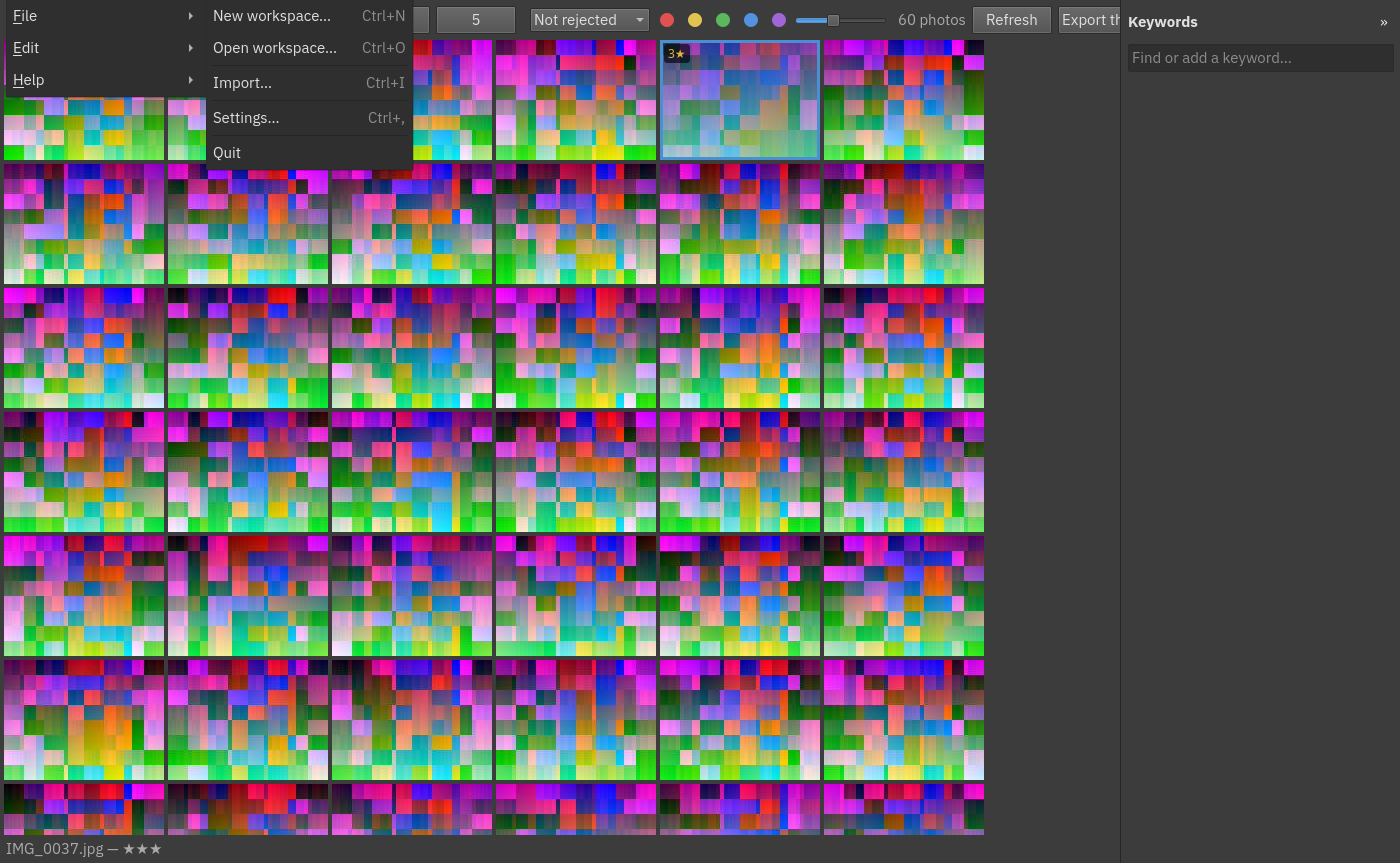
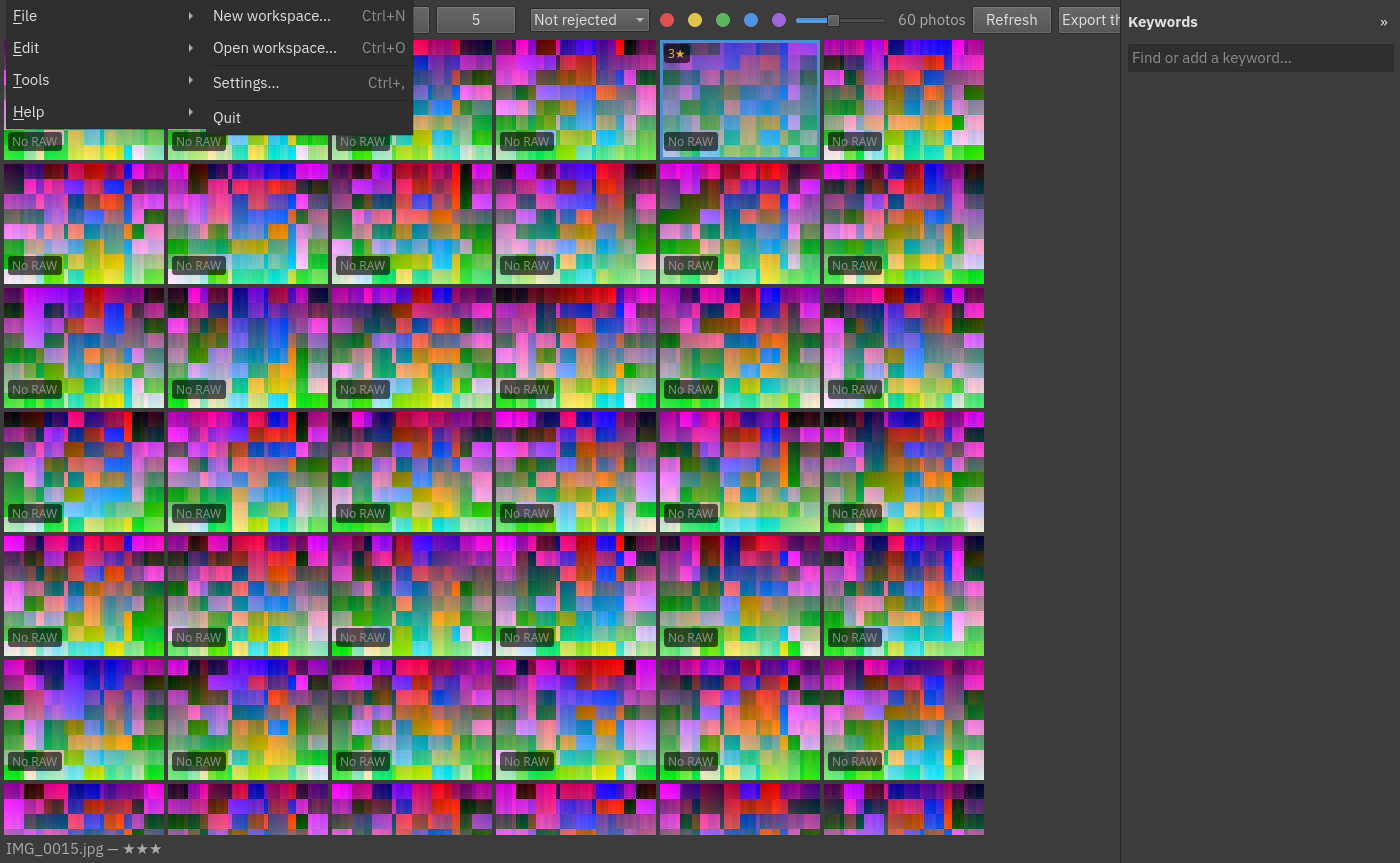
Group Import, Keywords and Duplicate photos under a new Tools menu (issue #14)
They were split across File (Import) and Edit (Keywords, Duplicate photos).
A fourth section, Tools (mnemonic T, no collision with File/Edit/Help's own
F/E/H, nor with French's F/E-acute/A), now holds all three, between Edit and
Help.

Caught by tst_menus.qml's own updated coverage, not by hand: Main.qml's
Repeater { model: 3 } behind every section's Alt+letter shortcut was sized
for File/Edit/Help only, so Alt+H (now the fourth section, not the third)
silently had no shortcut at all until the model became 4 - exactly the kind
of thing a hard-coded count over "every section" quietly stops covering the
moment one more is added.

- AppMenu.qml: the new section; French translation (Outils, mnemonic O).
- tst_menus.qml: section count, item lists, shortcut indices, Alt+T, and the
  cut-off-row loop all updated for four sections.
- docs/manual/: File/Edit path mentions of Import, Keywords and Duplicate
  photos updated to Tools; menu-file.png regenerated (the only manual image
  this touches).
- decisions.md: D-120.

diff --git a/crates/ui/tests/qml/tst_menus.qml b/crates/ui/tests/qml/tst_menus.qml
@@ -19,14 +19,14 @@ AppTestCase {
     function test_the_hamburger_menu_opens_lists_its_sections_and_runs_a_command() {
         launch(freshMachine())
         openMenu()
-        compare(app.menu.count, 3)
-        compare([0, 1, 2].map(sectionTitle), ["File", "Edit", "Help"])
+        compare(app.menu.count, 4)
+        compare([0, 1, 2, 3].map(sectionTitle), ["File", "Edit", "Tools", "Help"])
         // Choosing a section shows its commands; a click on one closes the menu and runs it.
         click(app.menu.itemAt(0))
         const file = app.menu.itemAt(0).subMenu
         verify(file.visible)
-        click(file.itemAt(5))
-        compare(file.itemAt(5).text, "Settings…")
+        click(file.itemAt(3))
+        compare(file.itemAt(3).text, "Settings…")
         wait(200)
         verify(app.settingsDialog.visible)
         verify(!app.menu.opened, "the menu closed")
@@ -36,23 +36,27 @@ AppTestCase {
         launch(freshMachine())
         const file = app.menu.itemAt(0).subMenu
         const edit = app.menu.itemAt(1).subMenu
+        const tools = app.menu.itemAt(2).subMenu
         const kinds = menu => Array.from({ length: menu.count }, (_, i) => isSeparator(menu.itemAt(i)) ? "-" : menu.itemAt(i).text)
-        // New and Open, then Import, then Settings, then Quit.
-        compare(kinds(file), ["New workspace…", "Open workspace…", "-", "Import…", "-", "Settings…", "-", "Quit"])
+        // New and Open, then Settings, then Quit.
+        compare(kinds(file), ["New workspace…", "Open workspace…", "-", "Settings…", "-", "Quit"])
         // History, then the clipboard, then Select all.
-        compare(kinds(edit), ["Undo", "Redo", "-", "Cut", "Copy", "Paste", "Delete", "-", "Select all", "Select none", "Invert selection", "-", "Keywords", "-", "Duplicate photos…"])
+        compare(kinds(edit), ["Undo", "Redo", "-", "Cut", "Copy", "Paste", "Delete", "-", "Select all", "Select none", "Invert selection"])
+        // Issue #14: Import, Keywords and Duplicate photos, grouped in their own section.
+        compare(kinds(tools), ["Import…", "-", "Keywords", "-", "Duplicate photos…"])
     }
 
     function test_every_command_shows_its_shortcut_the_way_the_platform_writes_it() {
         launch(freshMachine())
         const file = app.menu.itemAt(0).subMenu
+        const tools = app.menu.itemAt(2).subMenu
         const hint = item => item.contentItem.children[1].text
         const key = letter => Qt.platform.os === "osx" ? "⌘" + letter : "Ctrl+" + letter
         compare(hint(file.itemAt(0)), key("N"))
         compare(hint(file.itemAt(1)), key("O"))
-        compare(hint(file.itemAt(3)), key("I"))
-        compare(hint(file.itemAt(5)), key(","))
-        compare(hint(app.menu.itemAt(2).subMenu.itemAt(0)), "F1")
+        compare(hint(tools.itemAt(0)), key("I"))
+        compare(hint(file.itemAt(3)), key(","))
+        compare(hint(app.menu.itemAt(3).subMenu.itemAt(0)), "F1")
     }
 
     function test_the_shortcuts_reach_the_same_commands_as_the_menu() {
@@ -81,9 +85,14 @@ AppTestCase {
         verify(app.menu.itemAt(0).subMenu.visible, "Alt+F opens File")
         pressEscape()
         pressEscape()
+        keyClick(Qt.Key_T, Qt.AltModifier)
+        wait(250)
+        verify(app.menu.itemAt(2).subMenu.visible, "Alt+T opens Tools")
+        pressEscape()
+        pressEscape()
         keyClick(Qt.Key_H, Qt.AltModifier)
         wait(250)
-        verify(app.menu.itemAt(2).subMenu.visible, "Alt+H opens Help")
+        verify(app.menu.itemAt(3).subMenu.visible, "Alt+H opens Help")
     }
 
     function test_escape_closes_the_menu_and_the_dialogs() {
@@ -143,11 +152,11 @@ AppTestCase {
 
     function test_no_row_is_cut_short_the_first_time_a_menu_opens() {
         cutCount = 0
-        for (const section of [0, 1, 2, 0, 1, 2]) {
+        for (const section of [0, 1, 2, 3, 0, 1, 2, 3]) {
             launch(freshMachine())
             createWorkspace("Main")
-            // The first three in English, the others in French (the window is new every time).
-            app.launcher.chooseLanguage(section === undefined || cutCount++ < 3 ? "en" : "fr")
+            // The first four in English, the others in French (the window is new every time).
+            app.launcher.chooseLanguage(section === undefined || cutCount++ < 4 ? "en" : "fr")
             wait(250)
             app.menu.openSection(section)
             wait(300)

diff --git a/crates/ui/qml/AppMenu.qml b/crates/ui/qml/AppMenu.qml
@@ -2,9 +2,10 @@
 import QtQuick
 import QtQuick.Controls
 
-// The hamburger menu (D-090): File, Edit and Help as cascading submenus, each command with its
-// shortcut. Alt and the letter marked with & in a section's title open it (`openSection`), so the
-// letter follows the language (Alt+F, Alt+E, Alt+H; Alt+F, Alt+É, Alt+A in French).
+// The hamburger menu (D-090; a Tools section added by issue #14): File, Edit, Tools and Help as
+// cascading submenus, each command with its shortcut. Alt and the letter marked with & in a
+// section's title open it (`openSection`), so the letter follows the language (Alt+F, Alt+E,
+// Alt+T, Alt+H; Alt+F, Alt+É, Alt+O, Alt+A in French).
 AppSubMenu {
     id: root
     required property var actions
@@ -28,8 +29,6 @@ AppSubMenu {
         AppMenuItem { action: root.actions.newWorkspace }
         AppMenuItem { action: root.actions.openWorkspace }
         MenuSeparator {}
-        AppMenuItem { action: root.actions.importPhotos }
-        MenuSeparator {}
         AppMenuItem { action: root.actions.settings }
         MenuSeparator {}
         AppMenuItem { action: root.actions.quit }
@@ -47,6 +46,10 @@ AppSubMenu {
         AppMenuItem { action: root.actions.selectAll }
         AppMenuItem { action: root.actions.selectNone }
         AppMenuItem { action: root.actions.invertSelection }
+    }
+    AppSubMenu {
+        title: qsTr("&Tools")
+        AppMenuItem { action: root.actions.importPhotos }
         MenuSeparator {}
         AppMenuItem { action: root.actions.editKeywords }
         MenuSeparator {}

diff --git a/crates/ui/i18n/auroraw_en.ts b/crates/ui/i18n/auroraw_en.ts
@@ -352,17 +352,22 @@
 <context>
     <name>AppMenu</name>
     <message>
-        <location filename="../qml/AppMenu.qml" line="27"/>
+        <location filename="../qml/AppMenu.qml" line="28"/>
         <source>&amp;File</source>
         <translation type="unfinished"></translation>
     </message>
     <message>
-        <location filename="../qml/AppMenu.qml" line="38"/>
+        <location filename="../qml/AppMenu.qml" line="37"/>
         <source>&amp;Edit</source>
         <translation type="unfinished"></translation>
     </message>
     <message>
-        <location filename="../qml/AppMenu.qml" line="56"/>
+        <location filename="../qml/AppMenu.qml" line="51"/>
+        <source>&amp;Tools</source>
+        <translation type="unfinished"></translation>
+    </message>
+    <message>
+        <location filename="../qml/AppMenu.qml" line="59"/>
         <source>&amp;Help</source>
         <translation type="unfinished"></translation>
     </message>
@@ -682,12 +687,12 @@
 <context>
     <name>FileSaveDialog</name>
     <message>
-        <location filename="../qml/FileSaveDialog.qml" line="16"/>
+        <location filename="../qml/FileSaveDialog.qml" line="19"/>
         <source>Text files (*.txt)</source>
         <translation type="unfinished"></translation>
     </message>
     <message>
-        <location filename="../qml/FileSaveDialog.qml" line="16"/>
+        <location filename="../qml/FileSaveDialog.qml" line="19"/>
         <source>All files (*)</source>
         <translation type="unfinished"></translation>
     </message>

diff --git a/crates/ui/i18n/auroraw_fr.ts b/crates/ui/i18n/auroraw_fr.ts
@@ -352,17 +352,22 @@
 <context>
     <name>AppMenu</name>
     <message>
-        <location filename="../qml/AppMenu.qml" line="27"/>
+        <location filename="../qml/AppMenu.qml" line="28"/>
         <source>&amp;File</source>
         <translation>&amp;Fichier</translation>
     </message>
     <message>
-        <location filename="../qml/AppMenu.qml" line="38"/>
+        <location filename="../qml/AppMenu.qml" line="37"/>
         <source>&amp;Edit</source>
         <translation>&amp;Édition</translation>
     </message>
     <message>
-        <location filename="../qml/AppMenu.qml" line="56"/>
+        <location filename="../qml/AppMenu.qml" line="51"/>
+        <source>&amp;Tools</source>
+        <translation>&amp;Outils</translation>
+    </message>
+    <message>
+        <location filename="../qml/AppMenu.qml" line="59"/>
         <source>&amp;Help</source>
         <translation>&amp;Aide</translation>
     </message>
@@ -682,12 +687,12 @@
 <context>
     <name>FileSaveDialog</name>
     <message>
-        <location filename="../qml/FileSaveDialog.qml" line="16"/>
+        <location filename="../qml/FileSaveDialog.qml" line="19"/>
         <source>Text files (*.txt)</source>
         <translation>Fichiers texte (*.txt)</translation>
     </message>
     <message>
-        <location filename="../qml/FileSaveDialog.qml" line="16"/>
+        <location filename="../qml/FileSaveDialog.qml" line="19"/>
         <source>All files (*)</source>
         <translation>Tous les fichiers (*)</translation>
     </message>

diff --git a/crates/ui/qml/Main.qml b/crates/ui/qml/Main.qml
@@ -234,7 +234,7 @@ ApplicationWindow {
 
     // Alt and a section's mnemonic open it.
     Repeater {
-        model: 3
+        model: 4
         Item {
             required property int index
             Shortcut {

diff --git a/docs/decisions.md b/docs/decisions.md
@@ -124,3 +124,4 @@ Decisions confirmed by Patrick, in order. A reversed decision is not deleted: it
 | D-117 | 2026-09-27 | **Wording: "Reading the card…" assumed a memory card (issue #15).** A source can be any local folder or network share, not only a card; the import status now says *Reading the source…*. |
 | D-118 | 2026-09-27 | **A rescan's Done message says when it found a duplicate (issue #16).** `Event::IndexFinished.second_locations` (D-108's own count of files confirmed as a second location of an existing photo, joined rather than added) was already computed but dropped on the floor between the engine and the interface — `Bus::index_finished`'s own qsignal never carried it. It now does (`duplicates`, threaded through `CatalogueFlow.qml`'s handler); the Done message gains a fifth clause, *", %5 duplicate(s) found"*, only when `duplicates > 0` — a separate `qsTr` sentence, not a clause spliced onto the usual one, so nothing about word order is assumed across languages, and the message a rescan without any duplicate produces is untouched, byte for byte. |
 | D-119 | 2026-09-27 | **Every folder or file picker now remembers its own last folder (issue #18), generalizing #9 and #10.** A survey of every picker in the app found three with no memory at all: `Main.qml`'s "Open a workspace", and the two `FileSaveDialog`s exporting a list (`Library.qml`'s and `DuplicatesDialog.qml`'s, issue #13) — `NewWorkspaceDialog`, `AddSourceDialog` and `ImportDialog`'s own three fields already remember, and more strongly (pre-filling the field itself before Browse is even clicked), so they are left as they are rather than weakened to a field-blind mechanism. `AppSettings`'s two single-purpose fields (`last_workspace_folder`, `last_source_folder`) are replaced by one `last_folders: HashMap<String, String>`, keyed by a short name of the picker (`"workspace"`, `"source"`, and now `"open-workspace"`, `"export-photos"`, `"export-duplicates"`) — a new picker needs only a new key, not a new field and a new pair of call sites. `Folders` (the QML singleton already used for `Folders.closest`) gains `last(key)`/`remember(key, folder)`; `FolderPicker.qml` and `FileSaveDialog.qml` gain an opt-in `rememberAs` property wired through them, left empty on the pickers that already remember through their own field. |
+| D-120 | 2026-09-28 | **A Tools menu groups Import, Keywords and Duplicate photos (issue #14).** `AppMenu.qml` had them split across File (Import) and Edit (Keywords, Duplicate photos); a fourth section, **Tools** (mnemonic T, no collision with File/Edit/Help's own F/E/H, nor with French's F/É/A — `&Outils`, mnemonic O), now holds all three, between Edit and Help. Caught by `tst_menus.qml`'s own updated coverage, not by hand: `Main.qml`'s `Repeater { model: 3 }` behind every section's Alt+letter shortcut was sized for File/Edit/Help only, so Alt+H (now the *fourth* section, not the third) silently had no shortcut at all until the model became 4 — exactly the kind of thing a hard-coded count over "every section" quietly stops covering the moment one more is added. `docs/manual/`'s own mentions of **File ▸ Import…** and **Edit ▸ Keywords**/**Edit ▸ Duplicate photos…** updated to **Tools ▸**; `menu-file.png` regenerated (the only manual image this touches — File's own rows changed, nothing else did). |

diff --git a/docs/manual/01-first-steps.md b/docs/manual/01-first-steps.md
@@ -32,9 +32,9 @@ recent list. Opening a workspace that already holds photos shows them in the **C
 
 ## The window
 
-- The **☰ menu** at the top left has **File** (new and open workspace, Settings, Import, Quit), **Edit** (undo and
-  redo, select all, keywords, cut, copy and paste in text fields) and **Help** (About). `Alt` and a section's
-  underlined letter open it from the keyboard.
+- The **☰ menu** at the top left has **File** (new and open workspace, Settings, Quit), **Edit** (undo and redo,
+  select all, cut, copy and paste in text fields), **Tools** (Import, Keywords, Duplicate photos) and **Help**
+  (About). `Alt` and a section's underlined letter open it from the keyboard.
 - The tabs beside it are the tasks: **Catalogue** (your sources), **Cull** (looking at photos and sorting them out).
   **Develop** and **Publish** are not available yet.
 - A line at the top shows notices, for example that a card was detected.

diff --git a/docs/manual/README.md b/docs/manual/README.md
@@ -24,7 +24,7 @@ And for reference: the [keyboard shortcuts](keyboard-shortcuts.md) and the [glos
 
 - Keys are written like `Ctrl+Z`. On macOS, `Ctrl` is the ⌘ key where the application follows the platform's own
   shortcut (the menus show the exact one).
-- **File ▸ Import…** means: open the menu (the ☰ button at the top left), then File, then Import….
+- **Tools ▸ Import…** means: open the menu (the ☰ button at the top left), then Tools, then Import….
 - A **workspace**, a **source**, a **sidecar** and other words that mean something precise are explained in the
   [glossary](glossary.md).
 - Everything you do to your photos (a rating, a flag, a keyword, a series) can be undone with `Ctrl+Z`.

diff --git a/docs/manual/06-keywords.md b/docs/manual/06-keywords.md
@@ -2,7 +2,7 @@
 
 Keywords describe what is in a photo (*Animals*, *Peru*, *Cusco*). Auroraw keeps one **vocabulary** of keywords,
 arranged as a tree (*Places ▸ Peru ▸ Cusco*), and you give photos the keywords they deserve. The keyword panel is on
-the right of the grid; `Ctrl+K` (**Edit ▸ Keywords**) puts the keyboard in its field, `Escape` gives it back to
+the right of the grid; `Ctrl+K` (**Tools ▸ Keywords**) puts the keyboard in its field, `Escape` gives it back to
 the grid, and the `«` and `»` buttons fold the panel away or bring it back. Drag its left edge to make it wider or
 narrower (a double click gives back the default width); it remembers its width.
 

diff --git a/docs/manual/03-browsing.md b/docs/manual/03-browsing.md
@@ -80,7 +80,7 @@ for the photo it shows.
 
 ## Duplicate photos
 
-**Edit ▸ Duplicate photos…** (`Ctrl+D`) lists every photo Auroraw has found at more than one place: the same folder
+**Tools ▸ Duplicate photos…** (`Ctrl+D`) lists every photo Auroraw has found at more than one place: the same folder
 added twice, or a working folder and its backup, for instance. Auroraw notices this itself, while adding or
 rescanning a source, and only after checking the whole file, not just a quick fingerprint — so what is listed here
 is a real, confirmed duplicate, not a guess. Each one shows where it lives, with a **Show in file manager** button

diff --git a/docs/manual/02-bringing-photos-in.md b/docs/manual/02-bringing-photos-in.md
@@ -55,7 +55,7 @@ add the files as new photos.
 
 ## Import
 
-**File ▸ Import…** (`Ctrl+I`) opens the import dialog. When a camera card with a `DCIM` folder is plugged in,
+**Tools ▸ Import…** (`Ctrl+I`) opens the import dialog. When a camera card with a `DCIM` folder is plugged in,
 a **card banner** at the top offers *Import…* or *Ignore*.
 
 ![The import dialog](images/import.png)
